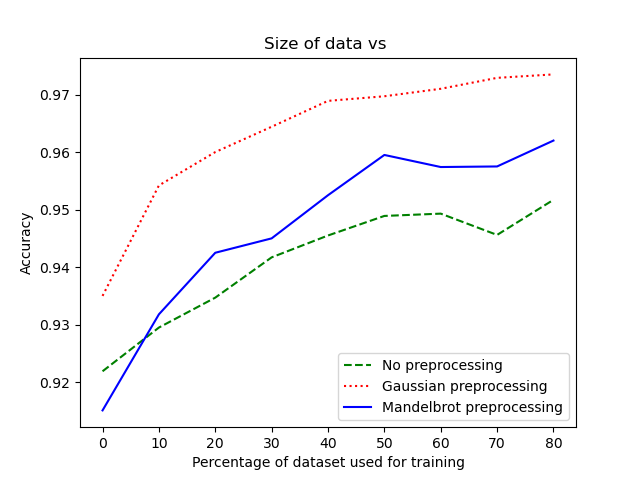
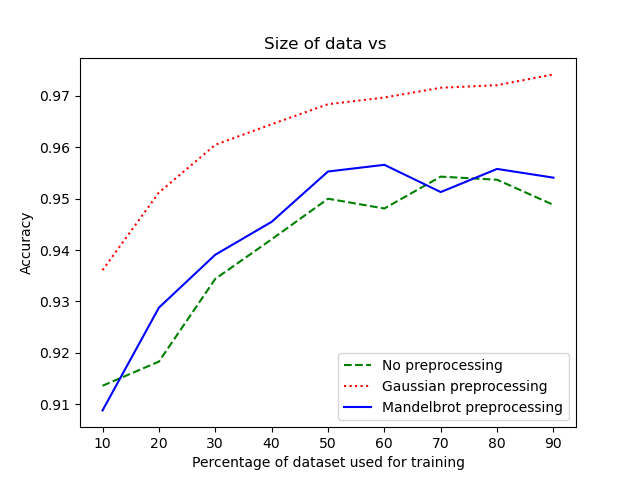
updated content

diff --git a/Mandlebrot/example.py b/Mandlebrot/example.py
@@ -164,10 +164,10 @@ for percent in range(10,100,10): #loop through different sized epochs
     standardData.append(model_standard.test(X_standard_test,test_y))
     mandleData.append(model_mandle.test(X_mandle_test,test_y))
 
-plt.plot([i*10 for i in range(len(plainData))],plainData,'k--', label='No preprocessing',c="g")
-plt.plot([i*10 for i in range(len(standardData))],standardData,'k:', label='Gaussian preprocessing',c="r")
-plt.plot([i*10 for i in range(len(mandleData))],mandleData,'k', label='Mandelbrot preprocessing',c="b")
-plt.title("Size of data vs ")
+plt.plot([i*10 for i in range(1,len(plainData)+1)],plainData,'k--', label='No preprocessing',c="g")
+plt.plot([i*10 for i in range(1,len(standardData)+1)],standardData,'k:', label='Gaussian preprocessing',c="r")
+plt.plot([i*10 for i in range(1,len(mandleData)+1)],mandleData,'k', label='Mandelbrot preprocessing',c="b")
+plt.title("Size of data vs accuracy")
 plt.ylabel("Accuracy")
 plt.xlabel("Percentage of dataset used for training")
 plt.legend(loc="lower right")
@@ -177,15 +177,15 @@ plt.show()
 plainData=[]
 standardData=[]
 mandleData=[]
-
-for epoch in range(40): #loop through different sized epochs
+percent=0.2
+for epoch in range(30): #loop through different sized epochs
     model_plain=model()
     model_standard=model()
     model_mandle=model()
     #train based on epoch
-    model_plain.train(train_X,train_y_,epochs=epoch)
-    model_standard.train(X_standard_train,train_y_,epochs=epoch)
-    model_mandle.train(X_mandle_train,train_y_,epochs=epoch)
+    model_plain.train(train_X[0:int(len(train_X)*percent)],train_y_[0:int(len(train_X)*percent)],epochs=epoch)
+    model_standard.train(X_standard_train[0:int(len(train_X)*percent)],train_y_[0:int(len(train_X)*percent)],epochs=epoch)
+    model_mandle.train(X_mandle_train[0:int(len(train_X)*percent)],train_y_[0:int(len(train_X)*percent)],epochs=epoch)
     #test
     plainData.append(model_plain.test(test_X,test_y))
     standardData.append(model_standard.test(X_standard_test,test_y))
